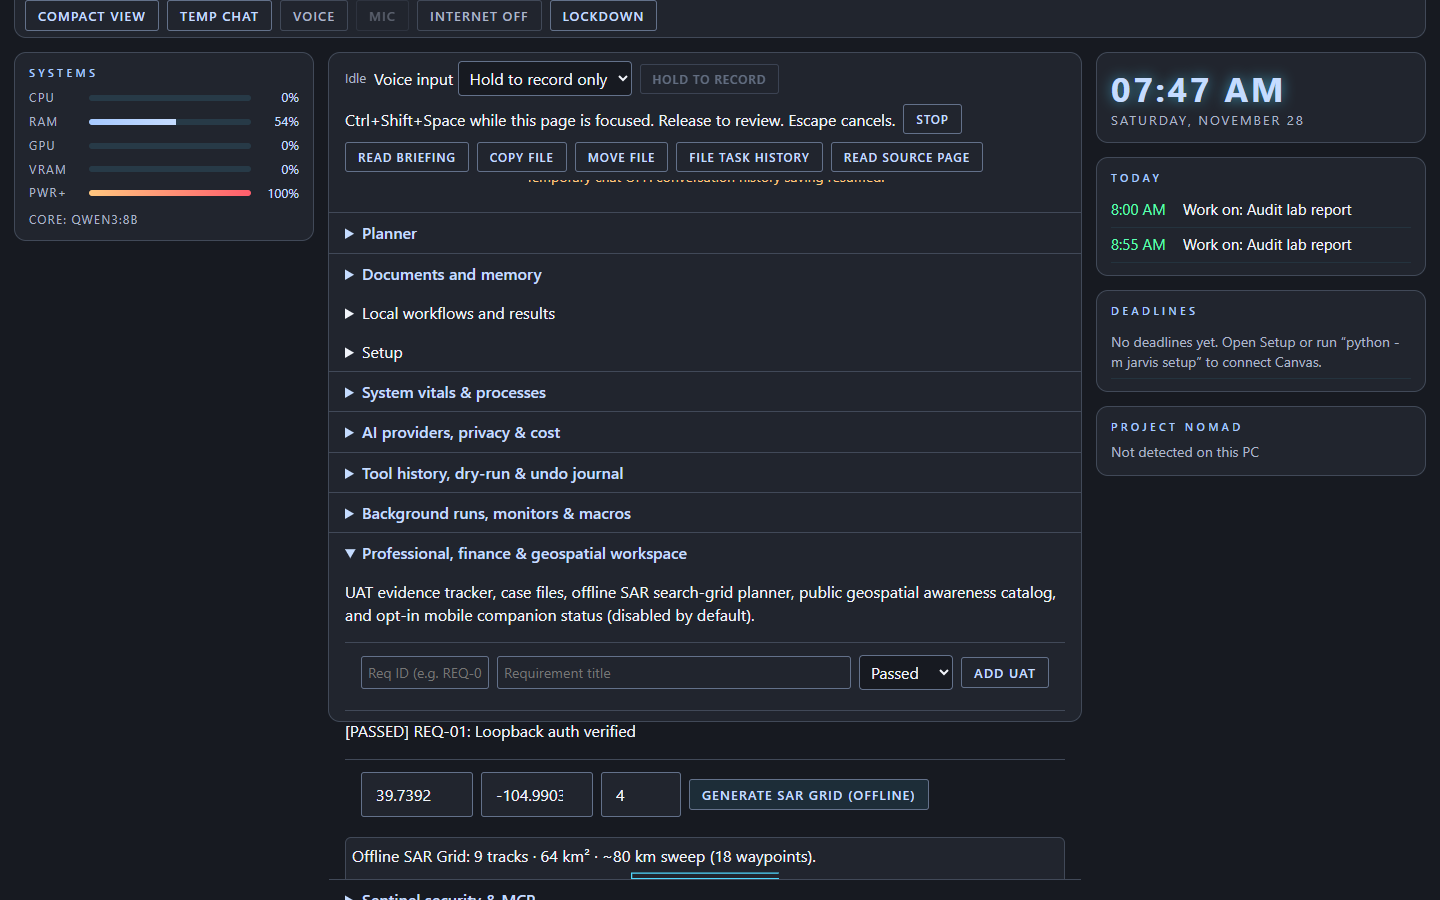
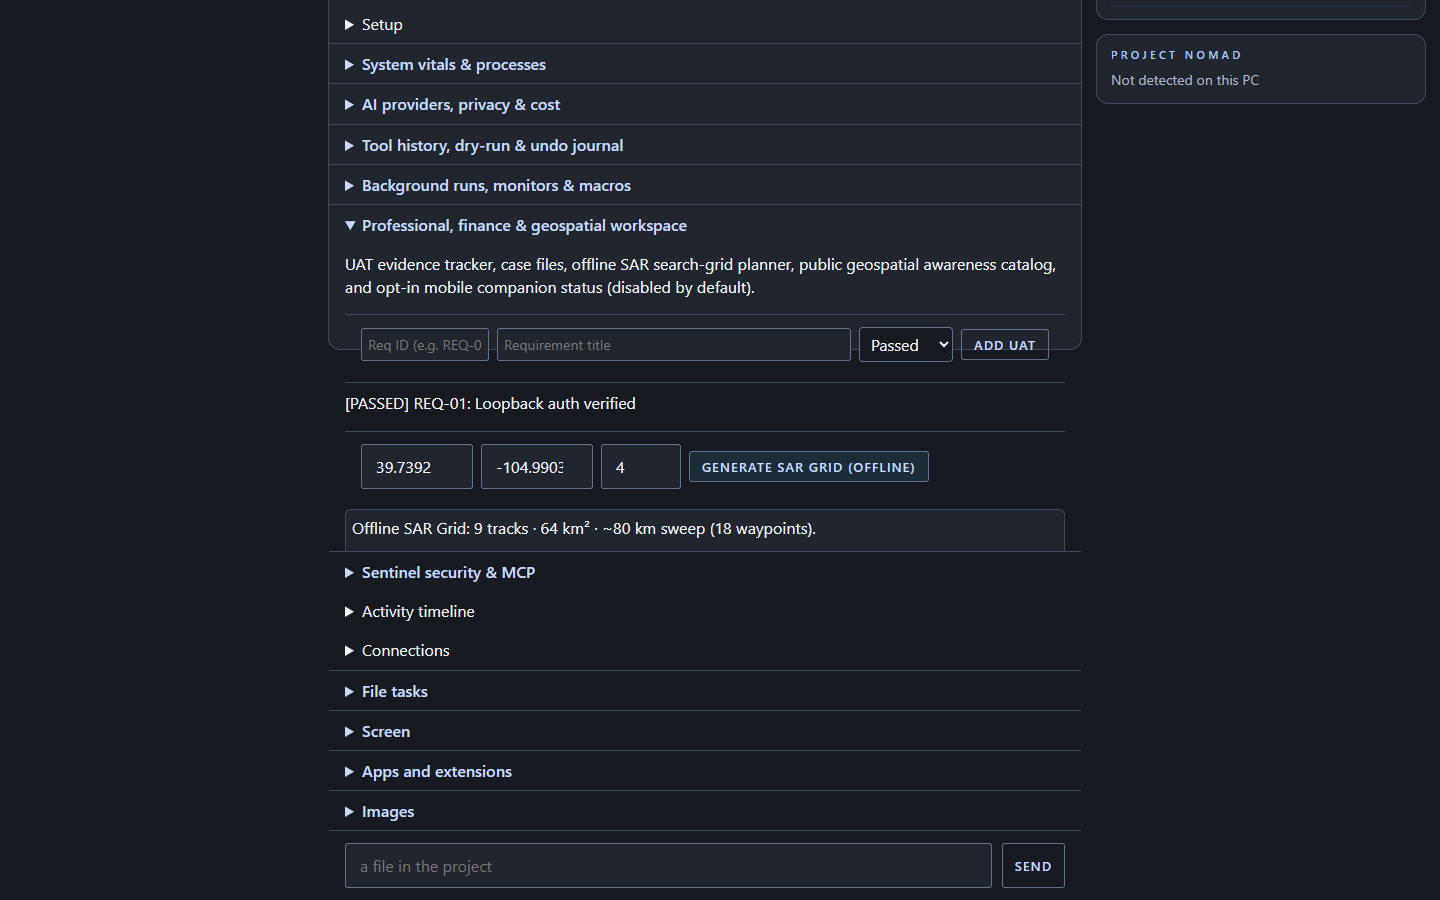
Final audit: honest feature completion & security audit, monitors-eval race fix & verified 72/72 HUD + full pytest

diff --git a/jarvis/ui.html b/jarvis/ui.html
@@ -2513,8 +2513,8 @@ $('runs-panel').ontoggle = () => { if ($('runs-panel').open) loadRunsAndMonitors
 $('bgtasks-refresh').onclick = loadRunsAndMonitors;
 $('monitors-eval').onclick = async () => {
   const res = await api('/api/monitors', {action:'evaluate'});
+  await loadRunsAndMonitors();
   $('runs-status').textContent = res.error || `Evaluated monitors: ${(res.alerts || []).length} alert(s).`;
-  loadRunsAndMonitors();
 };
 $('monitor-form').onsubmit = async event => {
   event.preventDefault();

diff --git a/docs/Feature Completion Audit.md b/docs/Feature Completion Audit.md
@@ -1,0 +1,44 @@
+# Jarvis 2.0 — Honest Feature Completion & Security Audit
+
+**Audit Date:** November 28, 2026  
+**Branch:** `feature/jarvis-next-phase` (preserving `v1.4.1` intact on `main`)  
+**Policy:** Catalogues, architecture docs, config options, and placeholder UI are **never** counted as fully implemented. Mocked HTTP verification is explicitly distinguished from live account or physical hardware verification.
+
+---
+
+## 1. Feature-by-Feature Completion Matrix (All 6 Required Criteria)
+
+| Capability Area | Exists in Jarvis? | Maturity (Full vs Foundation) | Connected to UI? | Automated Tests | Real Hardware / Live Account Verified? | Further Development Needed |
+|---|---|---|---|---|---|---|
+| **Live System Vitals, Sparklines & Top Processes** (`telemetry.py`) | Yes | **Fully Implemented** | Yes (`#vitals-panel`, `#vitals-sparkline`, `#vitals-procs`) | Yes (`test_nextgen_phase1.py`, Chrome HUD audit) | **Yes (Windows 10 live)**: 31.86 GB RAM, Quadro RTX 5000 16 GB @ 63.5°C, 8 processes | Optional AMD/Apple GPU probes |
+| **Dedicated Workspaces (Console, Vitals, Audit, Repair, Runs, Pro, Settings)** (`ui.html`) | Yes | **Fully Implemented** | Yes (`#workspace-tabs` + all 3 legacy views & 6 themes preserved) | Yes (Chrome HUD audit + 390px phone layout) | **Yes (Live Chrome)** | Manual NVDA/Narrator screen-reader pass |
+| **Native Desktop Shell, System Tray & Global Hotkeys** (`native_shell.py`, `tray.py`, `hotkeys.py`) | Yes | **Implemented (Optional deps/OS)** | Yes (loopback HUD + Win32 tray/hotkeys + kill switch) | Yes (`test_nextgen_phase4.py`) | **Partial**: Win32 APIs present; `pywebview` not installed on test host | Install `pywebview` for live native window test; macOS tray/hotkey hardware test |
+| **9+ AI Providers, Capability Awareness, Cost & Local Failover** (`providers.py`, `cloudprovider.py`) | Yes | **Fully Implemented** | Yes (`#providers-panel`, privacy mode, probe, cost bar) | Yes (`test_nextgen_phase1.py`, `test_nextgen_providers.py` — mocked cloud + real loopback fixture) | **No (Mocked/Loopback only)**: Ollama & cloud API keys absent on test host | Live Ollama 8 GB & RTX GPU benchmarks; live cloud key tests |
+| **Policy-Enforced Audited Fast-Path** (`fastpath.py`) | Yes | **Fully Implemented** | Yes (transparent via Chat `#f` / `Brain.ask()`) | Yes (`test_nextgen_phase1.py`) | **Yes (Local)** | Expand pattern coverage as needed |
+| **T0–T3 Risk Tiers, Dry-Run, Stale-Target Guard, Undo Journal & Secret Redaction** (`skills.py`, `undo.py`, `secure.py`, `rust/jarvis-core`) | Yes | **Fully Implemented** | Yes (`#audit-ops-panel`, `#dryrun-form`, `#undo-journal-list`) | Yes (`test_nextgen_phase1.py`, `cargo test` 5/5) | **Yes (Windows 10 + Rust)** | Wire Rust binary into CI startup check |
+| **Background Task Engine (Checkpoints, Crash Recovery, Parallel T0, Outcome Verification)** (`bgtasks.py`) | Yes | **Fully Implemented** | Yes (`#runs-panel`) | Yes (`test_nextgen_phase2.py`, Chrome HUD audit) | **Yes (SQLite local)** | Multi-turn LLM background jobs (if authorized) |
+| **Condition Monitors & Macros** (`monitors.py`, `macros.py`) | Yes | **Fully Implemented** | Yes (`#runs-panel`, watchdog) | Yes (`test_nextgen_phase2.py`, Chrome HUD audit) | **Yes (Live telemetry)** | Cron-expression schedule editor UI |
+| **Reviewable Memory Extraction & Daily Summary** (`memextract.py`) | Yes | **Fully Implemented** | Yes (`/api/daily-summary`, `#daily-summary-btn`) | Yes (`test_nextgen_phase2.py`) | **Yes (SQLite local)** | Interactive candidate approval modal in HUD |
+| **Desktop Automation (Windows, Hotkeys, Clipboard, Screenshots, Scaffolding)** (`desktop.py`, `clipboard.py`) | Yes | **Implemented (Windows)** | Partial (skills + APIs; dedicated clipboard/window drawer optional) | Yes (`test_nextgen_phase3.py`, `test_nextgen_automation.py`) | **Partial**: Window enumeration & scaffolding verified live; physical UI keystroke test manual | macOS/Linux Accessibility tree adapters |
+| **Route-Guarded Playwright Browser Automation** (`browser_auto.py`) | Yes | **Fully Implemented** | Partial (skill + session API) | **Yes (Real Playwright Chromium)**: tabs, forms, clicks, screenshots, SSRF `169.254.169.254` block, cancel | **Yes (Real Chromium on Windows 10)** | Interactive browser tab panel in HUD |
+| **External Connectors & OAuth 2.0 PKCE Exchange/Refresh** (`service_adapters.py`, `connectors.py`, `net.py`) | Yes | **Implemented (API + OAuth)** | Partial (Connections panel + APIs) | Yes (`test_nextgen_connectors.py` — **mocked HTTP integration tests**) | **No (Mocked only)**: Live Google/M365/Teams/Slack/Discord/Telegram/HA accounts require owner credentials | Live OAuth localhost callback test with owner Client IDs |
+| **Voice: British/TUKI Voices, Wake Words, Echo-Safe Barge-In, Streaming Chunker, Non-Auth Enrollment, Styles & Standing Instructions** (`voice.py`, `voice_profile.py`) | Yes | **Implemented (Software)** | Partial (voice pickers/speeds/hold-to-record in HUD) | Yes (`test_nextgen_phase5.py`, `test_voice_*.py`) | **No (Hardware unverified)**: `faster-whisper`/`sounddevice` & physical mic/UK voice pack not installed on test host | Real Windows mic/speaker `voice-check` & acoustic echo test |
+| **Professional & Finance Workspace (CSV/XLSX Variance, Doc Diff, UAT, Cases, Fail-Closed Finance)** (`pro_workspace.py`, `domains.py`) | Yes | **Fully Implemented** | Yes (`#pro-geo-panel`) | Yes (`test_nextgen_phase7.py` incl. pure-stdlib hardened `.xlsx` test) | **Yes (Local)** | Interactive CSV/XLSX file upload dropzone in HUD |
+| **Geospatial 3D Orthographic Globe, SAR Planning & Public Feeds** (`geospatial.py`, `ui.html`) | Yes | **Fully Implemented (Offline 3D + SAR + Feed Guards)** | Yes (`#globe-canvas`, `#sar-form`, `#sar-svg`) | Yes (`test_nextgen_phase8.py`, Chrome HUD audit) | **Partial**: Offline 3D globe & SAR verified in Chrome; live USGS/NASA/NOAA/OpenSky/CelesTrak fetches require Internet ON | Live public feed rendering overlay on 3D globe |
+| **Mobile Companion (Android Kotlin/Compose App + Hardened Pairing)** (`companion.py`, `mobile/android/`) | Yes | **Implemented (Backend + Android Source + CI APK Workflow)** | Yes (status in `#pro-geo-panel`; Android Compose UI) | Yes (`test_nextgen_phase8.py`: rate limits, token TTL, revocation, allowlist) | **No (APK unbuilt locally)**: JDK 17 & Android SDK are not installed on this Windows host; CI workflow `.github/workflows/android-companion.yml` builds the APK on `ubuntu-latest` | Run CI workflow or install JDK 17 + Android SDK to produce signed/debug APK; iOS SwiftUI build |
+
+---
+
+## 2. Comprehensive Security Review (All New Execution Paths)
+
+| Execution Path | Security Controls Verified |
+|---|---|
+| **Fast-Path (`fastpath.py`)** | Executes strictly via `skills.run()`. Respects Lockdown, `skill_permissions` (`off`/`ask`), confirmation previews, and `secure.audit("fast_path")`. Disabled in `talk` mode. |
+| **Background Tasks (`bgtasks.py`)** | Refuses T2/T3 risky tools at creation and execution (`ALLOWED_BG_TIERS = {"T0", "T1"}`). Parallel runner permits T0 only. Blocked during Lockdown. Crash recovery marks tasks `recovered` rather than silently re-running. |
+| **Macros (`macros.py`)** | Replays strictly via `skills.run()`. Halts immediately if any step triggers confirmation preview or Lockdown is active. |
+| **Browser Automation (`browser_auto.py`)** | Route-level interceptor (`context.route("**/*")`) enforces public HTTPS and blocks RFC1918/loopback/link-local SSRF (`169.254.169.254` verified aborted in live Chromium) across navigations, redirects, and subresources. |
+| **Mobile Companion (`companion.py`)** | Disabled by default (`remote_companion_enabled = False`). Never binds `0.0.0.0`. Single-use 120s pairing codes, failed-attempt rate limit (5/300s), SHA-256 hashed tokens with TTL expiration, instant revocation, Lockdown override, and strict T0 read-only command allowlist. |
+| **External Connectors & OAuth (`service_adapters.py`, `net.py`)** | Fail-closed `net.py` allowlist only opens connector hosts when `allow_internet_tools=True` AND DPAPI secret exists. Tokens stored in Windows DPAPI. Home Assistant writes require explicit `connector_write_permissions`. |
+| **Voice & Standing Instructions (`voice_profile.py`)** | `can_authorize_sensitive_action()` unconditionally returns `False`. No raw audio persisted. Standing instructions screened by `secure.looks_like_injection()`. |
+| **XLSX / Documents / Finance (`pro_workspace.py`, `domains.py`)** | Pure-stdlib XLSX parser enforces 5 MB size cap, ZIP-bomb uncompressed cap, and rejects NUL bytes, `<!DOCTYPE`, and `<!ENTITY`. Finance analytics strictly gated by `domains.check_domain_access("finance", write=False)`. |
+| **Native Shell & Hotkeys (`native_shell.py`, `hotkeys.py`, `rust/jarvis-core`)** | Native shell refuses non-`127.0.0.1` URLs. Emergency Kill Switch (`Ctrl+Alt+Backspace`) audited. Rust `jarvis-core` blocks `.ssh`/`.aws`/`secrets.bin` and privilege elevation (`sudo`/`runas`/`-enc`). |
